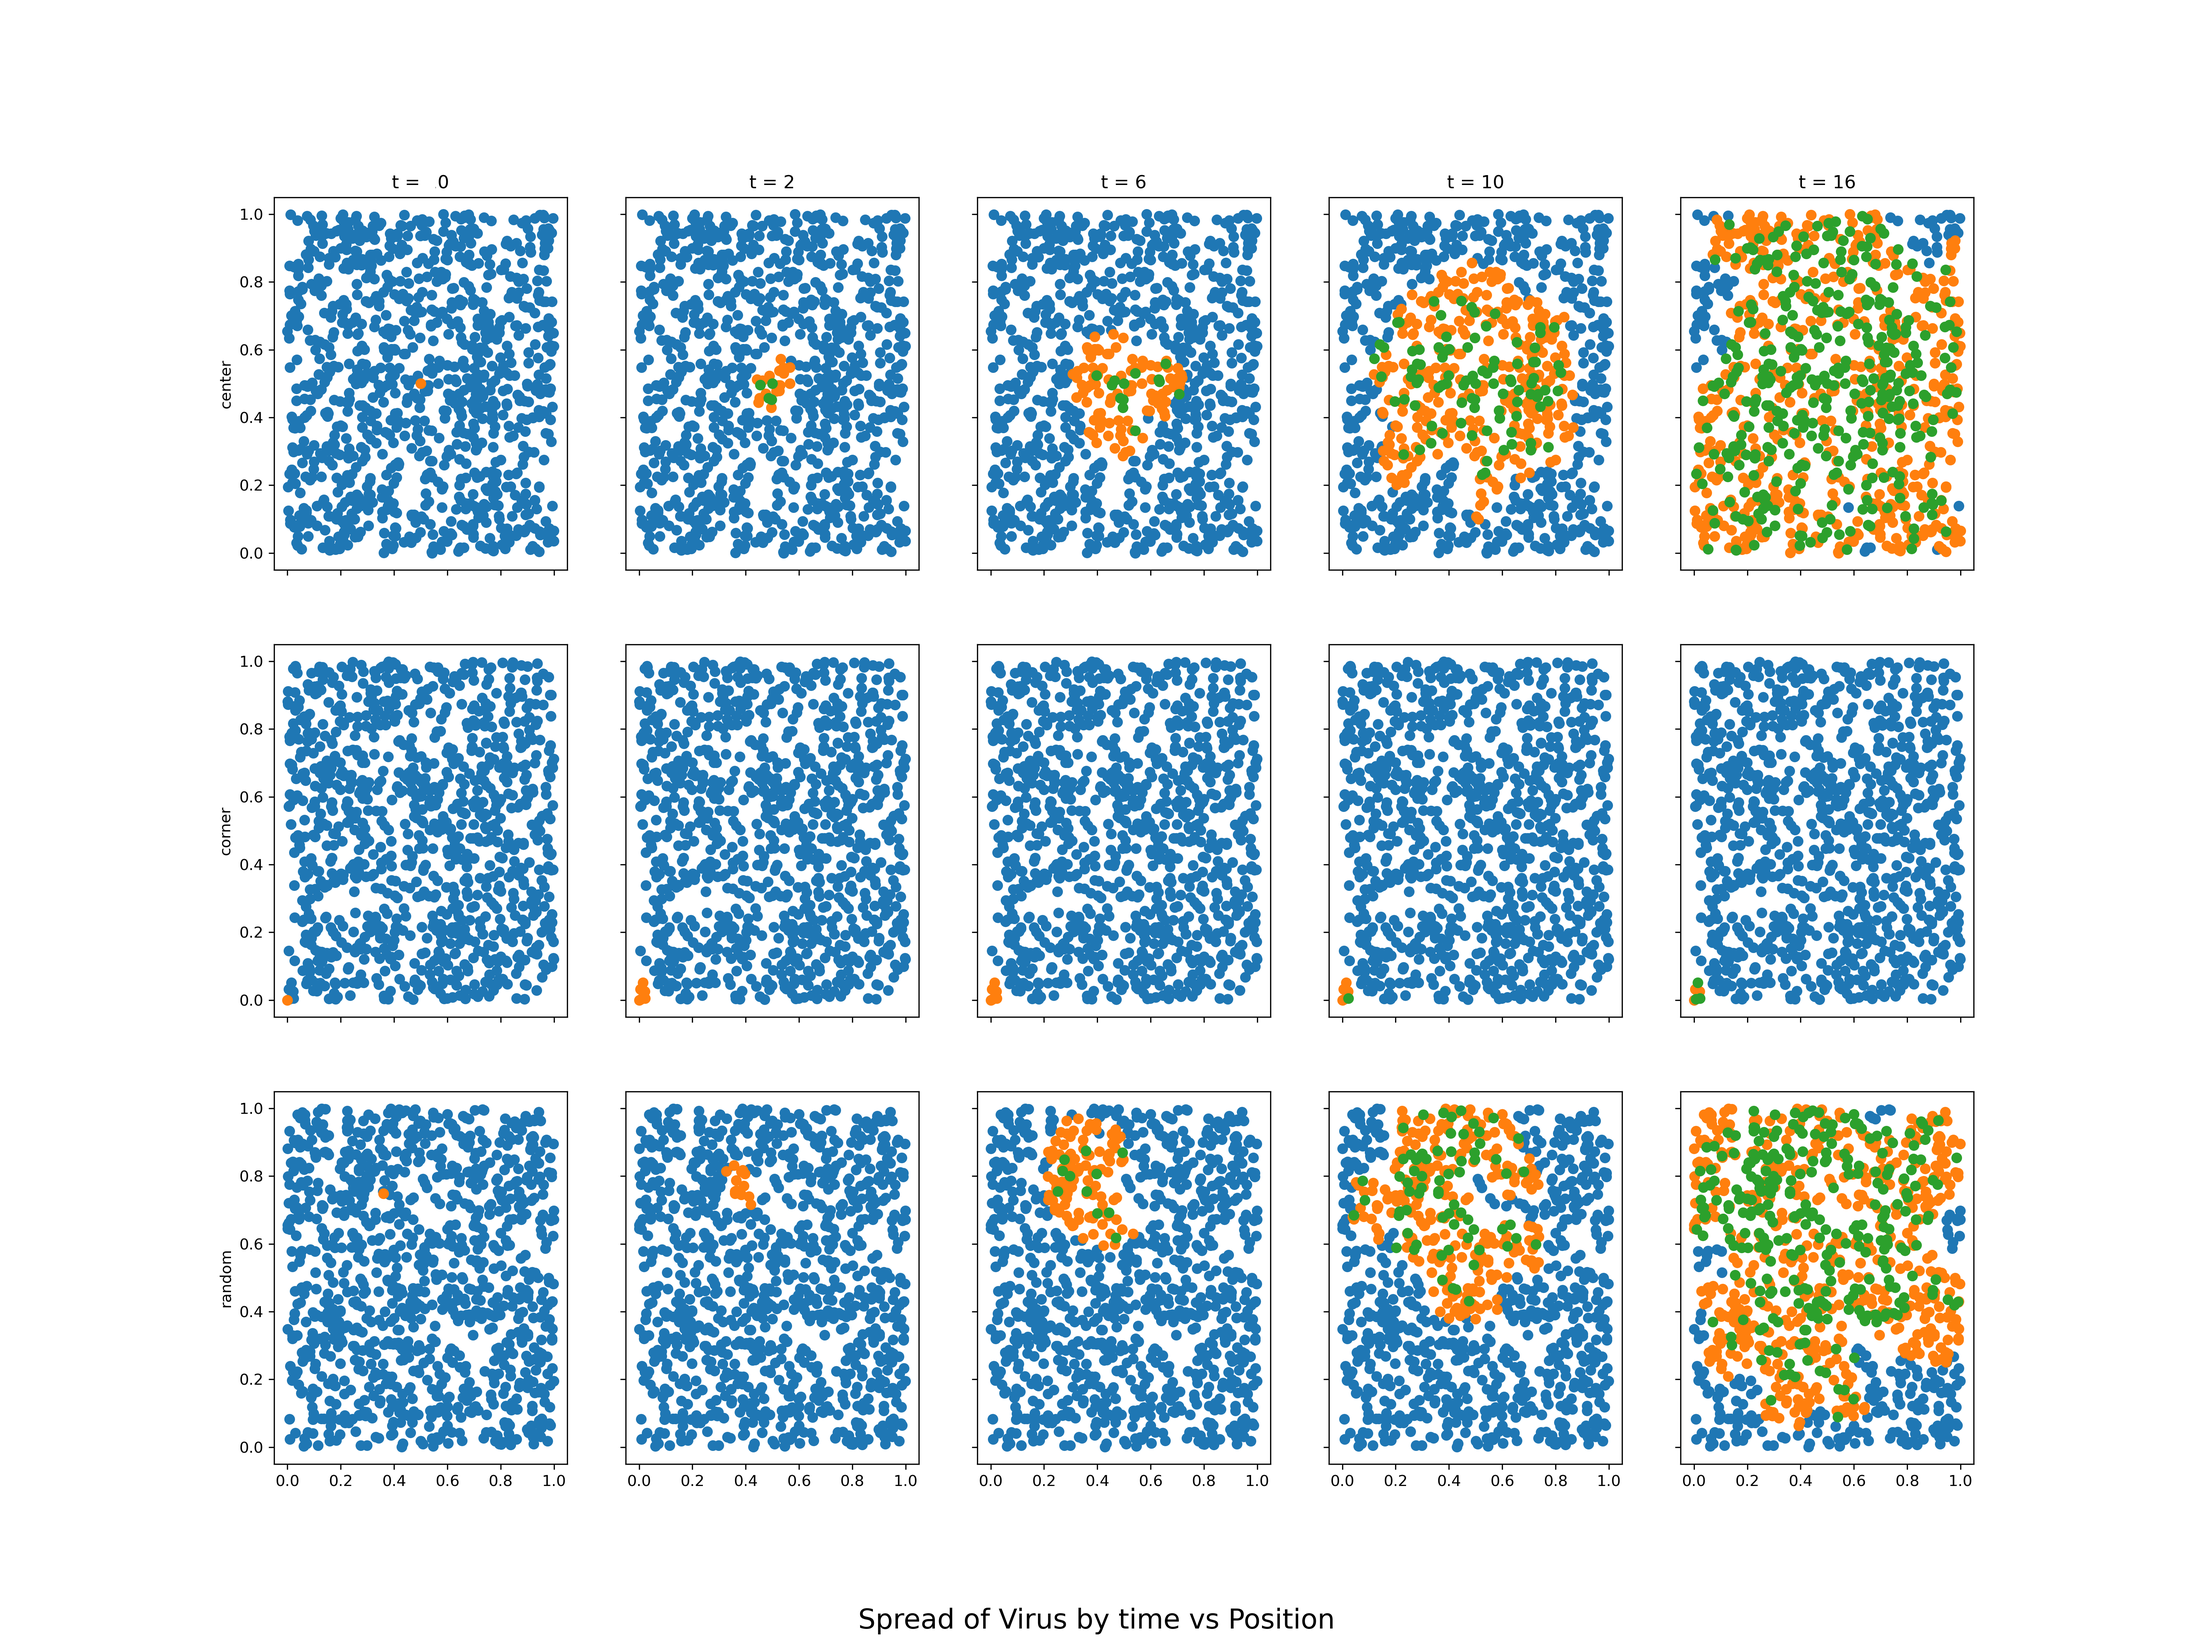
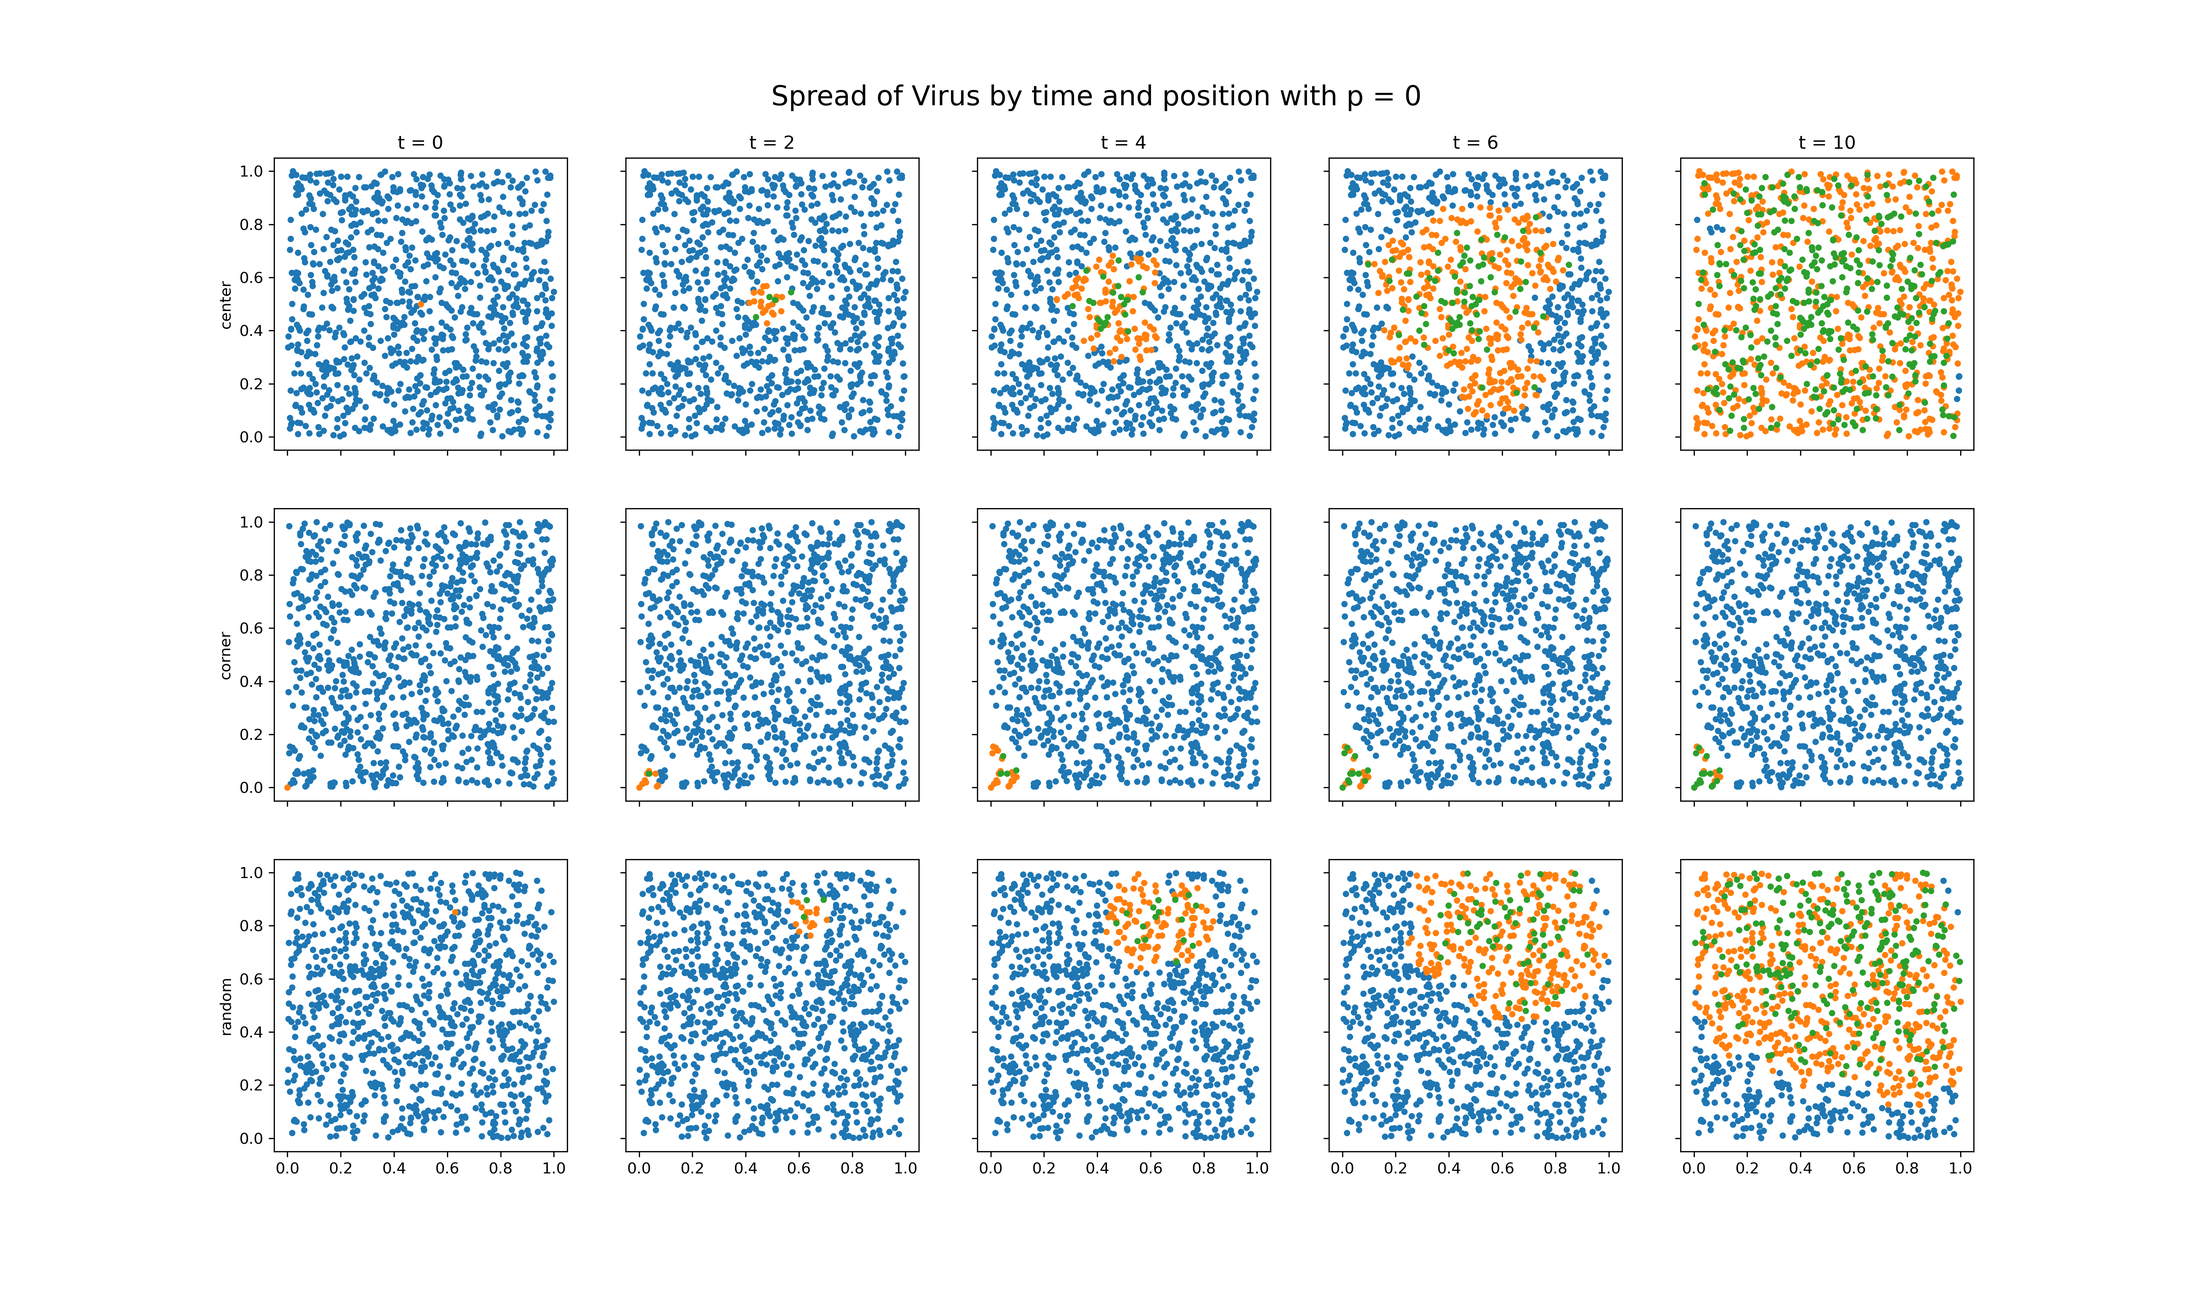
complete gif plots of agent 2d

diff --git a/scripts/agent_2d_simulation.py b/scripts/agent_2d_simulation.py
@@ -9,6 +9,8 @@ from scipy.spatial import KDTree
 from sir.agent_pop2d import Population2d
 from matplotlib.lines import Line2D
 import math
+from tqdm import tqdm
+import matplotlib.animation as animation
 
 def plot_lines(ax, df, cmap,label = None, start=0.2, end=1):
     """
@@ -31,7 +33,7 @@ def plot_lines(ax, df, cmap,label = None, start=0.2, end=1):
 
 
 # parameter settings
-N=1000
+N = 1000
 I = 1
 T = 50
 b = 7
@@ -41,13 +43,14 @@ q = math.sqrt(b/(math.pi*N))
 # investigate different ps starting at center
 def simulate_step(ps):
     results = np.zeros((len(ps),T+1,3))
-    for i, p in enumerate(ps):
+    for i, p in tqdm(enumerate(ps)):
         pop = pop = Population2d(N,I)
         counts_sir = pop.simulation(T, p, q=q, k=0.1) # shape = (T+1,3), columns are S, I, R
         results[i,...] = counts_sir / N # convert to fractions, store in results
     return results
-#generate scale plot
-def plot_scale_effect(results,save_as=None):
+
+# generate sir line plot for different ps
+def plot_step_effect(results,save_as=None):
     fig, ax = plt.subplots(1,3,figsize = (12,4),sharex='all', sharey='all')
     ax[0] = plot_lines(ax[0], results[:,:,0], mpl.cm.Blues,ps) #S
     ax[1] = plot_lines(ax[1], results[:,:,1], mpl.cm.OrRd,ps) #I
@@ -57,29 +60,17 @@ def plot_scale_effect(results,save_as=None):
     plt.show()
 
 
-ps = np.round(np.linspace(0,1,20),1)
+ps = np.linspace(0,1,10)
 r_ps = simulate_step(ps)
-plot_scale_effect(r_ps,'agent_2d_by_p')
+plot_step_effect(r_ps,'agent_2d_by_p')
 
-# investigate location
-# loc = ['center','corner']
-# loc.extend(['random']*5)
-# p = 0.01
-# results_loc = np.zeros((len(loc),T+1,3))
-# for i, l in enumerate(loc):
-#     pop = Population2d(N,I,l)
-#     counts_sir = pop.simulation(T,p=p, q=q,k=0.1) # shape = (T+1,3), columns are S, I, R
-#     results_loc[i,...] = counts_sir / N # convert to fractions, store in results
-# #location plot
-# fig, ax = plt.subplots(1,1, sharex='all', sharey='all')
-# ax = plot_lines(ax, results_loc[:,:,1],loc,mpl.cm.tab20)
-# ax.legend(loc = 4)
-# fig.show()
 
-def simulate_pos(p,n1 = 5,n2 = 5,n3 = 20):
+cols = ['pink','lime','cyan']
+def simulate_pos(p, n1 = 5, n2 = 5, n3 = 20):
     results = np.zeros(((n1 + n2 + n3), T + 1, 3))
     def run_sim(start, end, loc):
-        for i in range(start, end):
+        print(f'simulating {loc}')
+        for i in tqdm(range(start, end)):
             pop = Population2d(N, I, loc)
             counts_sir = pop.simulation(T, p=p, q=q, k=0.1)  # shape = (T+1,3), columns are S, I, R
             results[i, ...] = counts_sir / N
@@ -88,46 +79,50 @@ def simulate_pos(p,n1 = 5,n2 = 5,n3 = 20):
     run_sim(n1 + n2, n1 + n2 + n3, 'random')
     return results
 
-def plot_loc_effect_2d(results,n1 = 5,n2 = 5,n3 = 20,save_as=None):
+def plot_loc_effect_2d(results, p, n1 = 5,n2 = 5,n3 = 20, save_as=None):
     """
     investigate center/corner/random starting point with
     moving step p
     ns: num of simulation
     """
-    custom_lines = [Line2D([0], [0], color='r', lw=4),
-                    Line2D([0], [0], color='g', lw=4),
-                    Line2D([0], [0], color='b', lw=4)]
-    plt.plot(results[:n1, :, 1].T, c='r')
-    plt.plot(results[n1:n1 + n2, :, 1].T, c='g')
-    plt.plot(results[n1 + n2:n1 + n2 + n3, :, 1].T, c='b')
-    plt.legend(custom_lines, ['Center', 'Corner', 'Random'])
+    custom_lines = [Line2D([0], [0], color=cols[0], lw=4),
+                    Line2D([0], [0], color=cols[1], lw=4),
+                    Line2D([0], [0], color=cols[2], lw=4)]
+    plt.plot(results[:n1, :, 1].T, c=cols[0], alpha=1)
+    plt.plot(results[n1:n1 + n2, :, 1].T, c=cols[1], alpha=0.5)
+    plt.plot(results[n1 + n2:n1 + n2 + n3, :, 1].T, c=cols[2], alpha=0.5)
+    plt.legend(custom_lines, ['center', 'corner', 'random'])
     plt.xlabel("Time")
     plt.ylabel("Infectious Rate")
-    plt.title("Infectious Rate by Different Starting Position")
+    plt.title(f"Infectious Rate by Different Starting Position with p = {p}")
     if save_as != None:
         plt.savefig(f'../docs/figs/agent_loc_p_{save_as}.png', dpi=300)
     plt.show()
 
-r_p0 = simulate_pos(0)
-plot_loc_effect_2d(r_p0,save_as=0)
-r_p05 = simulate_pos(0.5)
-plot_loc_effect_2d(r_p05,save_as= 0.5)
-r_p1 = simulate_pos(1)
-plot_loc_effect_2d(r_p1,save_as=1)
+p = 0
+r_p0 = simulate_pos(p)
+plot_loc_effect_2d(r_p0, p, save_as=p)
+p = 0.5
+r_p05 = simulate_pos(p)
+plot_loc_effect_2d(r_p05,p,save_as=p)
+p = 1
+r_p1 = simulate_pos(p)
+plot_loc_effect_2d(r_p1,p,save_as=p)
 
 
-
+# show spread in 2-d scatter plots . take snapshots at certain time points
 T = [0,2,4,6,10]
 loc = ['center','corner','random']
 
-def plot_scatter(ax,pop):
-    ax.scatter(pop.s_info[:, 1], pop.s_info[:, 2])
-    ax.scatter(pop.i_info[:, 1], pop.i_info[:, 2])
-    if pop.r_info.size > 0:
-        ax.scatter(pop.r_info[:, 1], pop.r_info[:, 2])
 
-def plot_spread(p,save_as):
-    f, ax = plt.subplots(len(loc), len(T), figsize=(20, 15), sharex=True, sharey=True)
+def plot_scatter(ax,pop,s=10):
+    ax.scatter(pop.s_info[:, 1], pop.s_info[:, 2], s=s)
+    ax.scatter(pop.i_info[:, 1], pop.i_info[:, 2], s=s)
+    if pop.r_info.size > 0:
+        ax.scatter(pop.r_info[:, 1], pop.r_info[:, 2], s=s)
+
+def plot_spread(p,save_as=None):
+    f, ax = plt.subplots(len(loc), len(T), figsize=(20, 12), sharex=True, sharey=True)
     for i, l in enumerate(loc):
         pop = Population2d(N,I,l)
         for j, t in enumerate(T):
@@ -136,13 +131,129 @@ def plot_spread(p,save_as):
     for i, l in enumerate(loc):
         ax[i, 0].set_ylabel("{}".format(l))
     for j, t in enumerate(T):
-        ax[0, j].set_title("t = {}".format(T[j]+T[j-1]))
-    f.text(0.5, 0.01, 'Spread of Virus by time vs Position', ha='center', fontsize=18)
+        ax[0, j].set_title("t = {}".format(T[j]))
+    f.text(0.5, 0.92, f'Spread of Virus by time and position with p = {p}', ha='center', fontsize=18)
     if save_as != None:
         plt.savefig(f'../docs/figs/agent_spread_p_{save_as}.png', dpi=300)
     plt.show()
     plt.show()
 
 plot_spread(0,0)
-plot_spread(0.3,0.3)
+plot_spread(0.5,0.5)
 plot_spread(1,1)
+
+
+# show spread in 2-d scatter plots by gif
+its = np.zeros((1,3))
+def update(t, Tmax, p, ax, s, pop_center, pop_corner, pop_random):
+    i_tmp = []
+
+    SIRs = pop_center.simulation(T=1, p=p, q=q, k=k)
+    i_tmp.append(SIRs[1,1]/N)
+    ax[0].clear()
+    ax[0].scatter(pop_center.s_info[:, 1], pop_center.s_info[:, 2], s=s)
+    ax[0].scatter(pop_center.i_info[:, 1], pop_center.i_info[:, 2], s=s)
+    if pop_center.r_info.size > 0:
+        ax[0].scatter(pop_center.r_info[:, 1], pop_center.r_info[:, 2], s=s)
+    ax[0].set_title('center')
+    ax[0].xaxis.set_visible(False)
+    ax[0].yaxis.set_visible(False)
+
+    SIRs = pop_corner.simulation(T=1, p=p, q=q, k=k)
+    i_tmp.append(SIRs[1,1]/N)
+    ax[1].clear()
+    ax[1].scatter(pop_corner.s_info[:, 1], pop_corner.s_info[:, 2], s=s)
+    ax[1].scatter(pop_corner.i_info[:, 1], pop_corner.i_info[:, 2], s=s)
+    if pop_corner.r_info.size > 0:
+        ax[1].scatter(pop_corner.r_info[:, 1], pop_corner.r_info[:, 2], s=s)
+    ax[1].set_title('corner')
+    ax[1].xaxis.set_visible(False)
+    ax[1].yaxis.set_visible(False)
+
+    SIRs = pop_random.simulation(T=1, p=p, q=q, k=k)
+    i_tmp.append(SIRs[1,1]/N)
+    ax[2].clear()
+    ax[2].scatter(pop_random.s_info[:, 1], pop_random.s_info[:, 2], s=s)
+    ax[2].scatter(pop_random.i_info[:, 1], pop_random.i_info[:, 2], s=s)
+    if pop_random.r_info.size > 0:
+        ax[2].scatter(pop_random.r_info[:, 1], pop_random.r_info[:, 2], s=s)
+    ax[2].set_title('random')
+    ax[2].xaxis.set_visible(False)
+    ax[2].yaxis.set_visible(False)
+
+    global its
+    its = np.vstack((its, np.asarray(i_tmp).reshape(1,3)))
+    ax[3].clear()
+    ax[3].plot(range(len(its)),its[:,0], label='center', c=cols[0])
+    ax[3].plot(range(len(its)),its[:,1], label='corner', c=cols[1])
+    ax[3].plot(range(len(its)),its[:,2], label='random', c=cols[2])
+    ax[3].legend()
+    ax[3].set_xlim(0,Tmax)
+    ax[3].set_xlabel('time')
+    ax[3].set_ylim(0,1)
+    ax[3].set_title('infectious rate')
+    ax[3].yaxis.tick_right()
+
+def plot_spread_gif(p, Tmax=T, save_as=None):
+    fig, ax = plt.subplots(1, 4, dpi=200, figsize=(16,4))
+    s = 10
+
+    global its
+
+    pop_center = Population2d(N,I,'center')
+    its[0,0] = pop_center.count_SIR()[1]/N
+    ax[0].scatter(pop_center.s_info[:, 1], pop_center.s_info[:, 2], s=s)
+    ax[0].scatter(pop_center.i_info[:, 1], pop_center.i_info[:, 2], s=s)
+    if pop_center.r_info.size > 0:
+        ax[0].scatter(pop_center.r_info[:, 1], pop_center.r_info[:, 2], s=s)
+    ax[0].set_title('center')
+    ax[0].xaxis.set_visible(False)
+    ax[0].yaxis.set_visible(False)
+
+    pop_corner = Population2d(N,I,'corner')
+    its[0,1] = pop_corner.count_SIR()[1]/N
+    ax[1].scatter(pop_corner.s_info[:, 1], pop_corner.s_info[:, 2], s=s)
+    ax[1].scatter(pop_corner.i_info[:, 1], pop_corner.i_info[:, 2], s=s)
+    if pop_corner.r_info.size > 0:
+        ax[1].scatter(pop_corner.r_info[:, 1], pop_corner.r_info[:, 2], s=s)
+    ax[1].set_title('corner')
+    ax[1].xaxis.set_visible(False)
+    ax[1].yaxis.set_visible(False)
+
+    pop_random = Population2d(N,I,'random')
+    its[0,2] = pop_random.count_SIR()[1]/N
+    ax[2].scatter(pop_random.s_info[:, 1], pop_random.s_info[:, 2], s=s)
+    ax[2].scatter(pop_random.i_info[:, 1], pop_random.i_info[:, 2], s=s)
+    if pop_random.r_info.size > 0:
+        ax[2].scatter(pop_random.r_info[:, 1], pop_random.r_info[:, 2], s=s)
+    ax[2].set_title('random')
+    ax[2].xaxis.set_visible(False)
+    ax[2].yaxis.set_visible(False)
+
+    ax[3].plot(range(len(its)),its[:,0], label='center', c=cols[0])
+    ax[3].plot(range(len(its)),its[:,1], label='corner', c=cols[1])
+    ax[3].plot(range(len(its)),its[:,2], label='random', c=cols[2])
+    ax[3].legend()
+    ax[3].set_xlim(0,Tmax)
+    ax[3].set_xlabel('time')
+    ax[3].set_ylim(0,1)
+    ax[3].yaxis.tick_right()
+    ax[3].set_title('infectious rate')
+
+    ani = animation.FuncAnimation(fig, update, frames=Tmax,
+                                fargs=(Tmax, p, ax, s, pop_center, pop_corner, pop_random),
+                                    interval=100, blit=False)
+    if save_as:
+        ani.save(f"../docs/figs/{save_as}.gif", writer='pillow')
+
+np.random.seed(0)
+plot_spread_gif(0,Tmax=100,save_as='agent_2d_spread_p0_isolated')
+
+np.random.seed(1)
+plot_spread_gif(0,Tmax=100,save_as='agent_2d_spread_p0_isolated')
+
+np.random.seed(0)
+plot_spread_gif(0.5,Tmax=100,save_as='agent_2d_spread_p05 ')
+
+np.random.seed(0)
+plot_spread_gif(1,Tmax=100,save_as='agent_2d_spread_p1 ')

diff --git a/scripts/agent_seir_simulation.py b/scripts/agent_seir_simulation.py
@@ -9,6 +9,7 @@ from mpl_toolkits.axes_grid1 import make_axes_locatable
 from mpl_toolkits.mplot3d import Axes3D
 import itertools as it
 import matplotlib.ticker as mticker
+import matplotlib.animation as animation
 
 # global hyper parameters
 N = 10000
@@ -174,8 +175,6 @@ plot_phase_3d(bfks, itss[:,t], title=f'$i({t})$', save_as='agent_seir_phase_3d')
 #     plot_phase_3d(bfks, itss[:,t], title=f't = {t}')
 #     plt.show()
 
-
-import matplotlib.animation as animation
 
 def plot_phase_2d_gif(bfks, itss, Tmax=T, cmap = 'OrRd'):
     bs, fs, ks = (np.unique(bfks[:, i]) for i in range(3))

diff --git a/sir/agent_pop2d.py b/sir/agent_pop2d.py
@@ -133,7 +133,7 @@ class Population2d():
         """
         simulate the spread for T days
         return:
-            SIRs, shape (T, 3), record of daily S, I, R
+            SIRs, shape (T+1, 3), record of daily S, I, R
             if record_time, also return the computation time of each step move(), infect(), recover()
         """
         SIRs = np.array(self.count_SIR())

diff --git a/sir/ode_seir.py b/sir/ode_seir.py
@@ -1,7 +1,8 @@
 """
 This module includes functions for the ODE model.
 """
-
+import sys
+sys.path.append('../sir')
 import numpy as np
 from scipy.integrate import solve_ivp
 

diff --git a/follow_up.md b/follow_up.md
@@ -1,16 +1,17 @@
 
-- gif plot
-  参数的话可以从小到大从大到小
-  时间的话就单项
+- add gif plot
+
   - ✅basic SIR phase
     - ❓but agent's figures have bold texts. weird.
-  - 2d, transmission，可以2*2，还有个方格子放line plot
+  - 2d, transmission，4 subplots，include a gif line plot
   - ✅seir, phase
     - 2d
     - 3d
     - ❓but agent's figures have bold texts. weird.
 
-- granularity of n1+n2+n3
+- increase granularity of n1+n2+n3
+  - agent
+    depends on N and I, not i0 alone
   - 2d, lines
     - also change color and rgb
 
@@ -18,3 +19,5 @@
   - average actual step size
     - simulation
     - integral
+
+- ✅add more test cases
